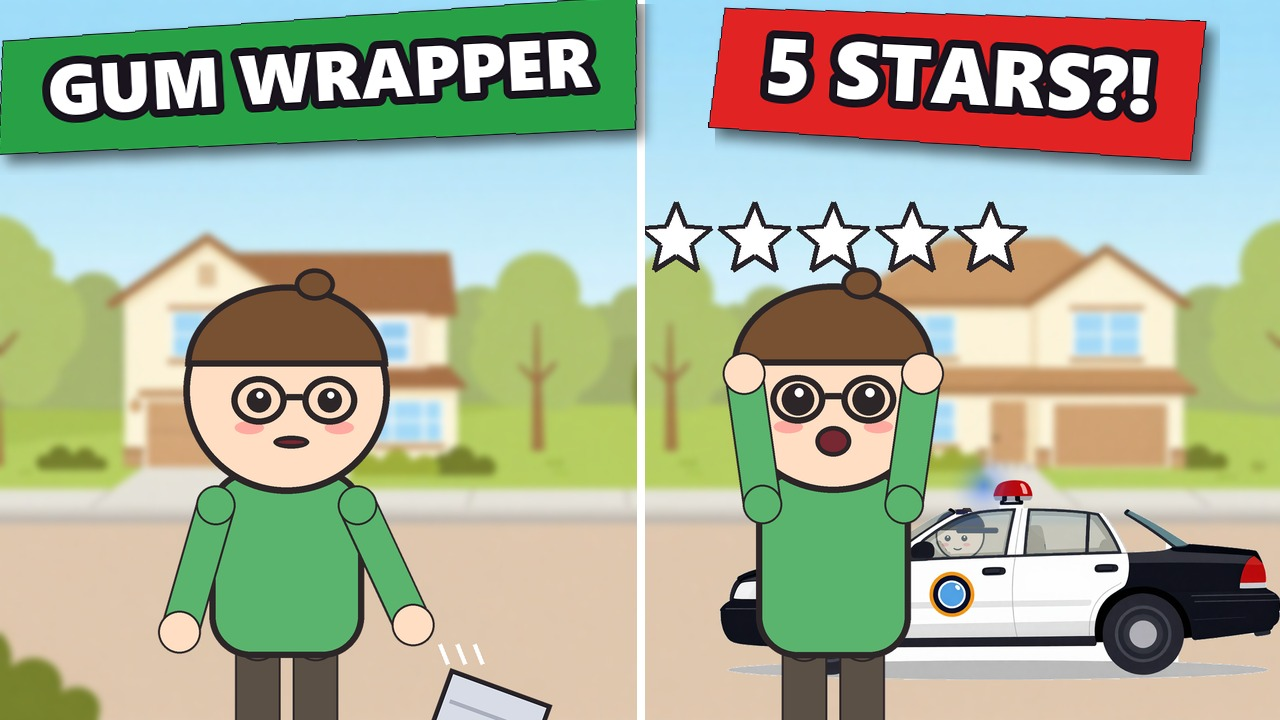
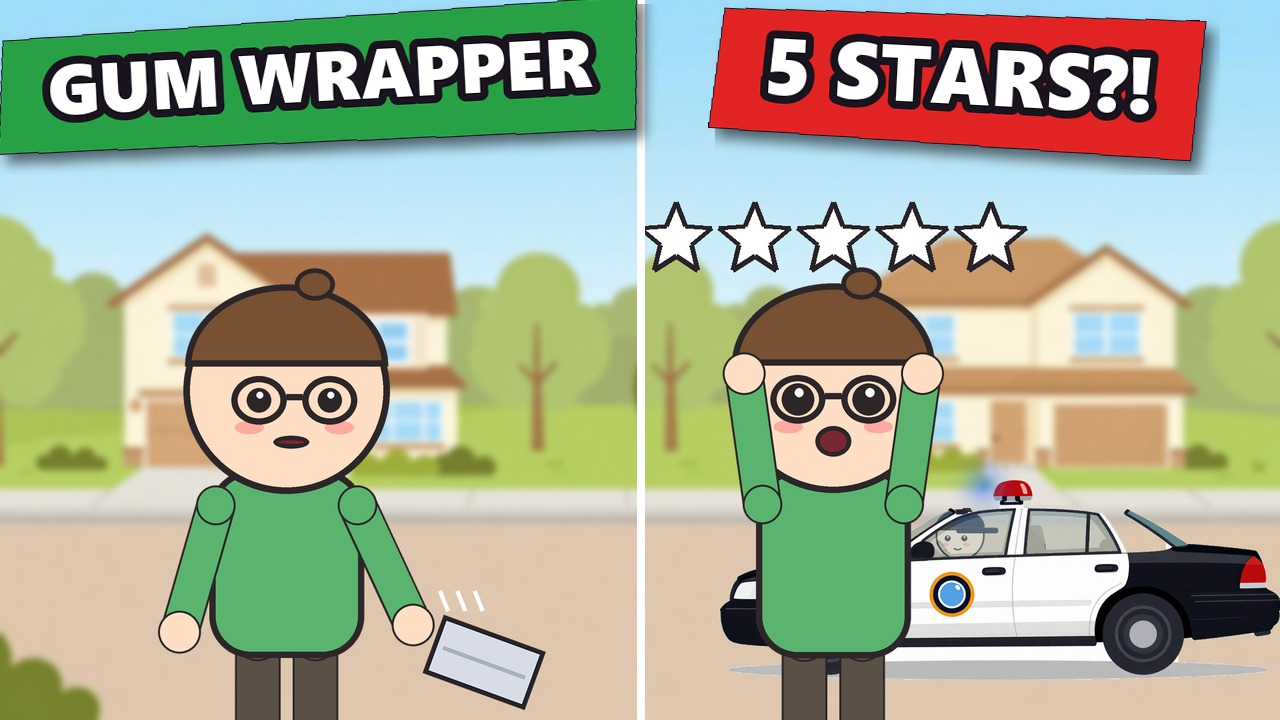
gta-echt: thumbnail (GUM WRAPPER / 5 STARS?!)

Changed region(s): [[0.3125, 0.825, 0.4375, 1.0]]

diff --git a/kanalen/marketdoodle/video-gta-echt/thumbnail.py b/kanalen/marketdoodle/video-gta-echt/thumbnail.py
@@ -22,8 +22,8 @@ dd = ImageDraw.Draw(img)
 S = 2.35 * ps.C["dad"].get("groot", 1); hx, hy, _ = m.rhand("dad", 430, 1180, 2.1, 25)
 pap = Image.new("RGBA", (170, 100), (0, 0, 0, 0)); pd = ImageDraw.Draw(pap)                      # kauwgompapiertje valt uit de hand
 pd.rectangle((4, 4, 166, 96), fill=(215, 220, 230), outline=(40, 35, 40), width=7); pd.line((20, 50, 150, 50), fill=(170, 175, 190), width=6); pap = pap.rotate(-20, expand=True, resample=Image.BICUBIC)
-img.paste(pap, (int(hx + 20), int(hy + 60)), pap)
-for k in range(3): dd.line((hx + 40 + k * 26, hy + 30, hx + 52 + k * 26, hy + 60), fill=(255, 255, 255), width=6)   # valstreepjes
+img.paste(pap, (int(hx + 10), int(hy - 20)), pap)
+for k in range(3): dd.line((hx + 40 + k * 26, hy - 50, hx + 52 + k * 26, hy - 20), fill=(255, 255, 255), width=6)   # valstreepjes
 for k in range(5):                                                                            # 5 grote sterren
     import math as _m; x = hr[0] + (k - 2) * 118; y = hr[1] - 80; r = 56
     pts = [(x + (r if j % 2 == 0 else r * 0.45) * _m.sin(j * _m.pi / 5), y - (r if j % 2 == 0 else r * 0.45) * _m.cos(j * _m.pi / 5)) for j in range(10)]
